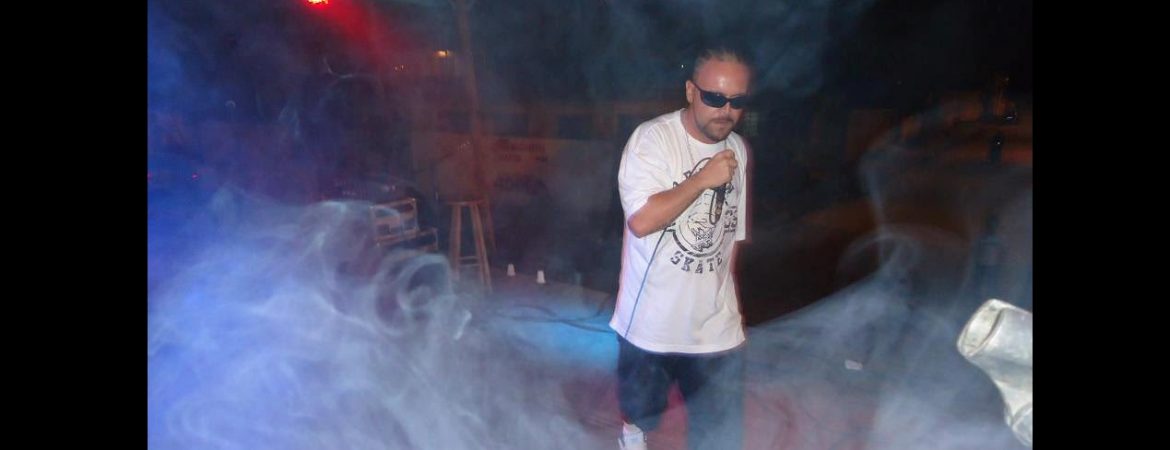
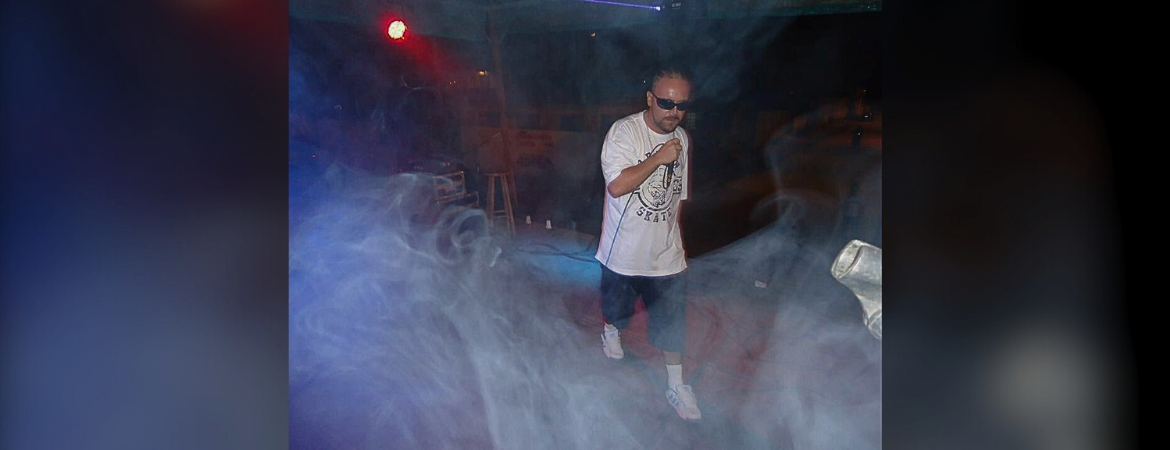
code organized, banner02 changed

diff --git a/hiphop-website/src/pages/shows.jsx b/hiphop-website/src/pages/shows.jsx
@@ -2,14 +2,33 @@ import React from 'react';
 import Header from '../components/header';
 import Navigation from '../components/navigation';
 import Footer from '../components/footer';
+import { Carousel } from '../components/carousel';
+import banner from '../assets/banners/banner01.png';
+import EventContainer from '../components/eventContainer';
 
 const Shows = () => {
+    const slides = [
+        {
+            title: "Shows e Eventos",
+            subtitle: "",
+            image: banner,
+            src: '',
+            target: ''
+        },
+    ]
     return (
         <div className="body-page">
             <Navigation />
             <div className='page'>
                 <Header />
+                <Carousel
+                    slides={slides}
+                    arrows={false}
+                    indicators={false}
+                />
+                <EventContainer />
                 <Footer />
+
             </div>
         </div>
     );

diff --git a/hiphop-website/src/components/eventContainer.jsx b/hiphop-website/src/components/eventContainer.jsx
@@ -1,0 +1,16 @@
+import React from 'react';
+import Title from './global/title';
+import './eventContainer.css';
+
+const EventContainer = () => {
+    return (
+        <>
+            <Title text={'Shows'} />
+            <div className="event-container">
+
+            </div>
+        </>
+    );
+}
+
+export default EventContainer;

diff --git a/hiphop-website/src/pages/musicas.jsx b/hiphop-website/src/pages/musicas.jsx
@@ -10,7 +10,7 @@ const Musicas = () => {
 
     const slides = [
         {
-            title: "A carreira completa de DKJ RAP num só lugar!",
+            title: "A carreira completa de DKJ RAP",
             subtitle: "",
             image: banner,
             src: '',
